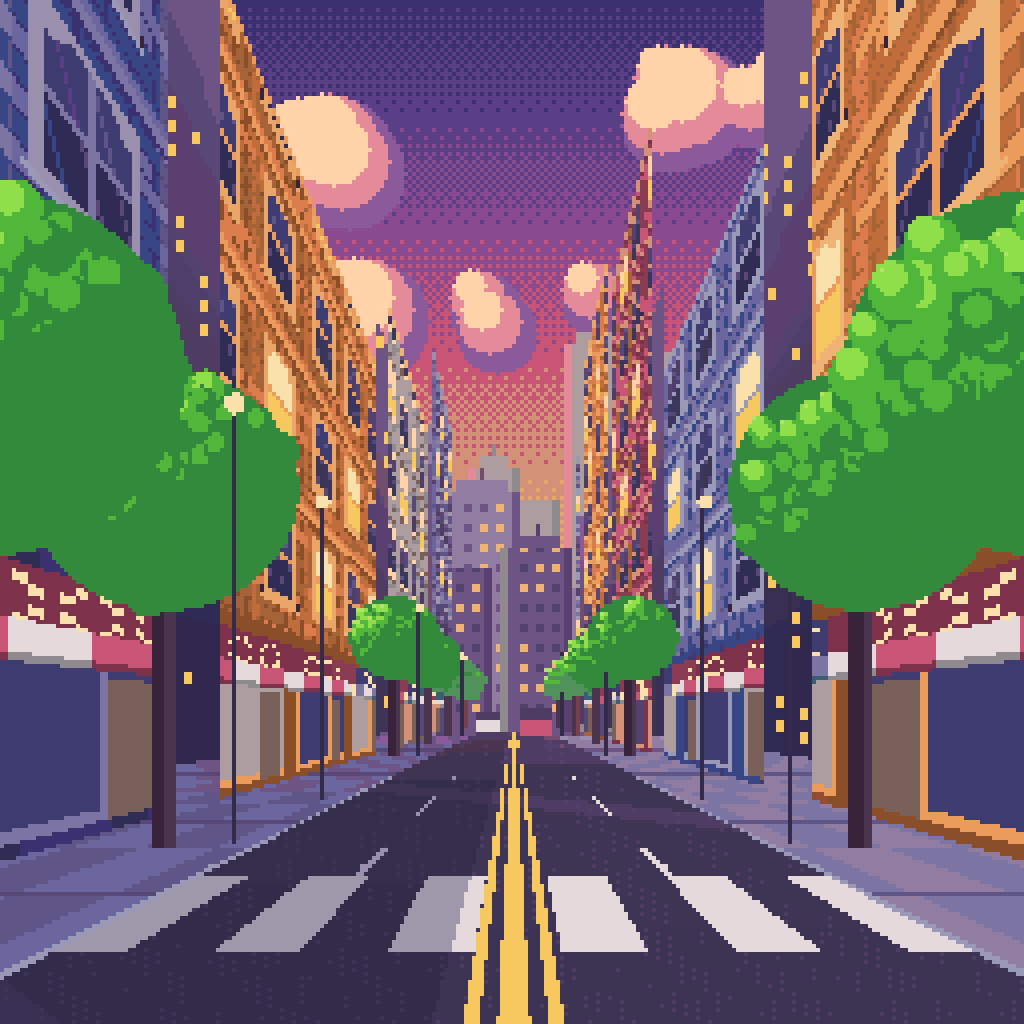
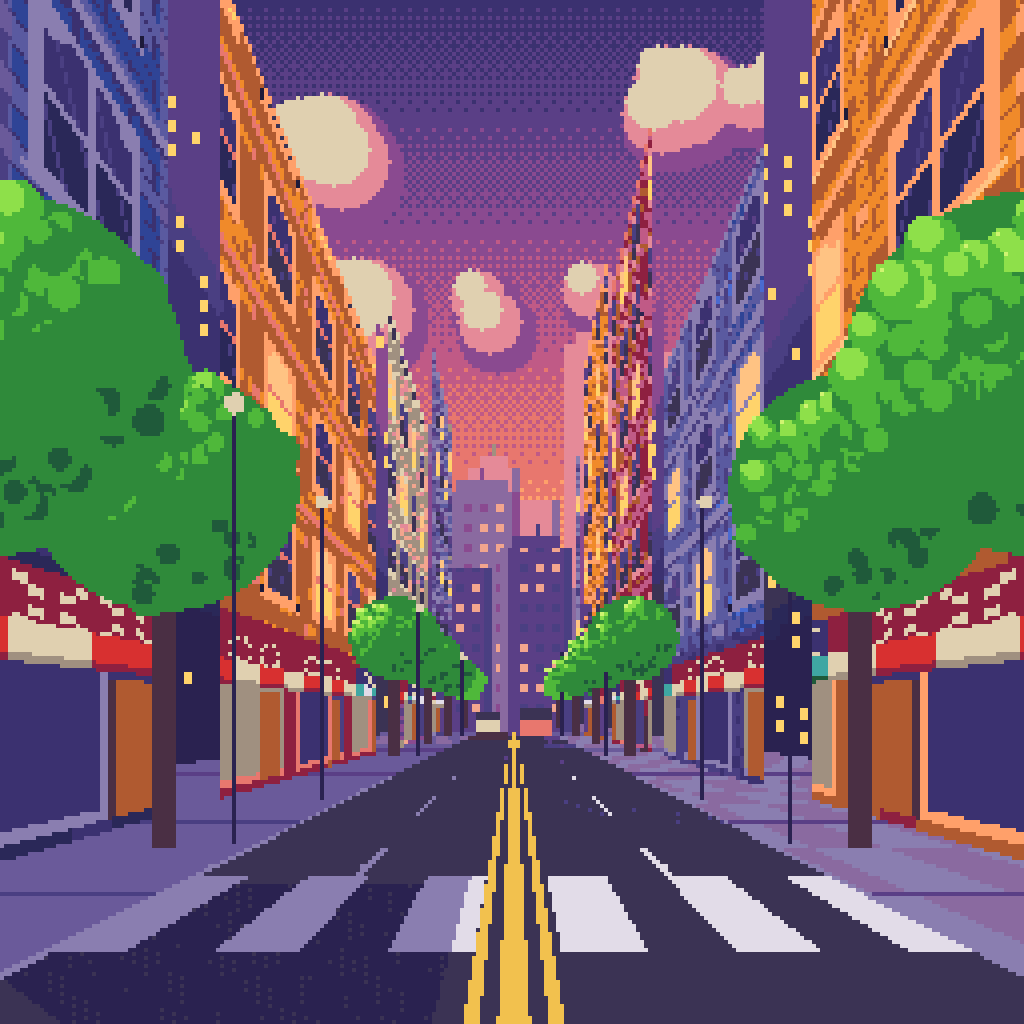
Street v4: hand-picked 36-colour palette, hero scale preview (cutout rough)
Claude-Session: https://claude.ai/code/session_018A3EjUJwum2xaBpGm7gsrV

diff --git a/games/background/street/make_street.py b/games/background/street/make_street.py
@@ -181,7 +181,14 @@ def car(X,z,c):
     for y in range(y0,yb):
         for x in range(x0,x1): put(x,y,fog(c if y>y0+.45*s else hx("#2a2858"),z))
 car(1.5,30,hx("#d8434f")); car(-1.6,38,hx("#e8e0d0"))
-out=im.quantize(64,method=Image.Quantize.MEDIANCUT,dither=Image.Dither.NONE).convert("RGB")
+PAL=["#1d1a3a","#2a2250","#3b3170","#5a3f86","#8a4a90","#c05a86","#e8776e","#ffa06a","#ffc383","#f2a58e","#e58a98",
+"#8a6aa0","#6a5a9a","#4a3f82","#f08a2a","#b05a30","#d83030","#8e2040","#4a6ad0","#2f4496","#e0d0b0","#a09080",
+"#ffd36b","#2a2858","#5a5aa0","#1f5a3a","#2f8a3a","#4fb83a","#8ee04a","#d0f470","#3b3354","#8a7eb0","#f2c14e","#e2dce8","#4a2f44","#3fa7a3"]
+pim=Image.new("P",(1,1)); flat=[]
+for c in PAL: flat+=list(hx(c))
+pim.putpalette(flat+[0]*(768-len(flat)))
+out=im.quantize(palette=pim,dither=Image.Dither.NONE).convert("RGB")
+rich=im.quantize(128,method=Image.Quantize.MEDIANCUT,dither=Image.Dither.NONE).convert("RGB"); rich.save("street_dusk_art_256_rich.png")
 out.save("street_dusk_art_256.png"); out.resize((1024,1024),Image.NEAREST).save("street_dusk_x4.png")
 print("colours:",len(out.getcolors(100000)))
 ref=Image.open("../../style-guide/references/ref_city_street.webp").convert("RGB").resize((512,512))
